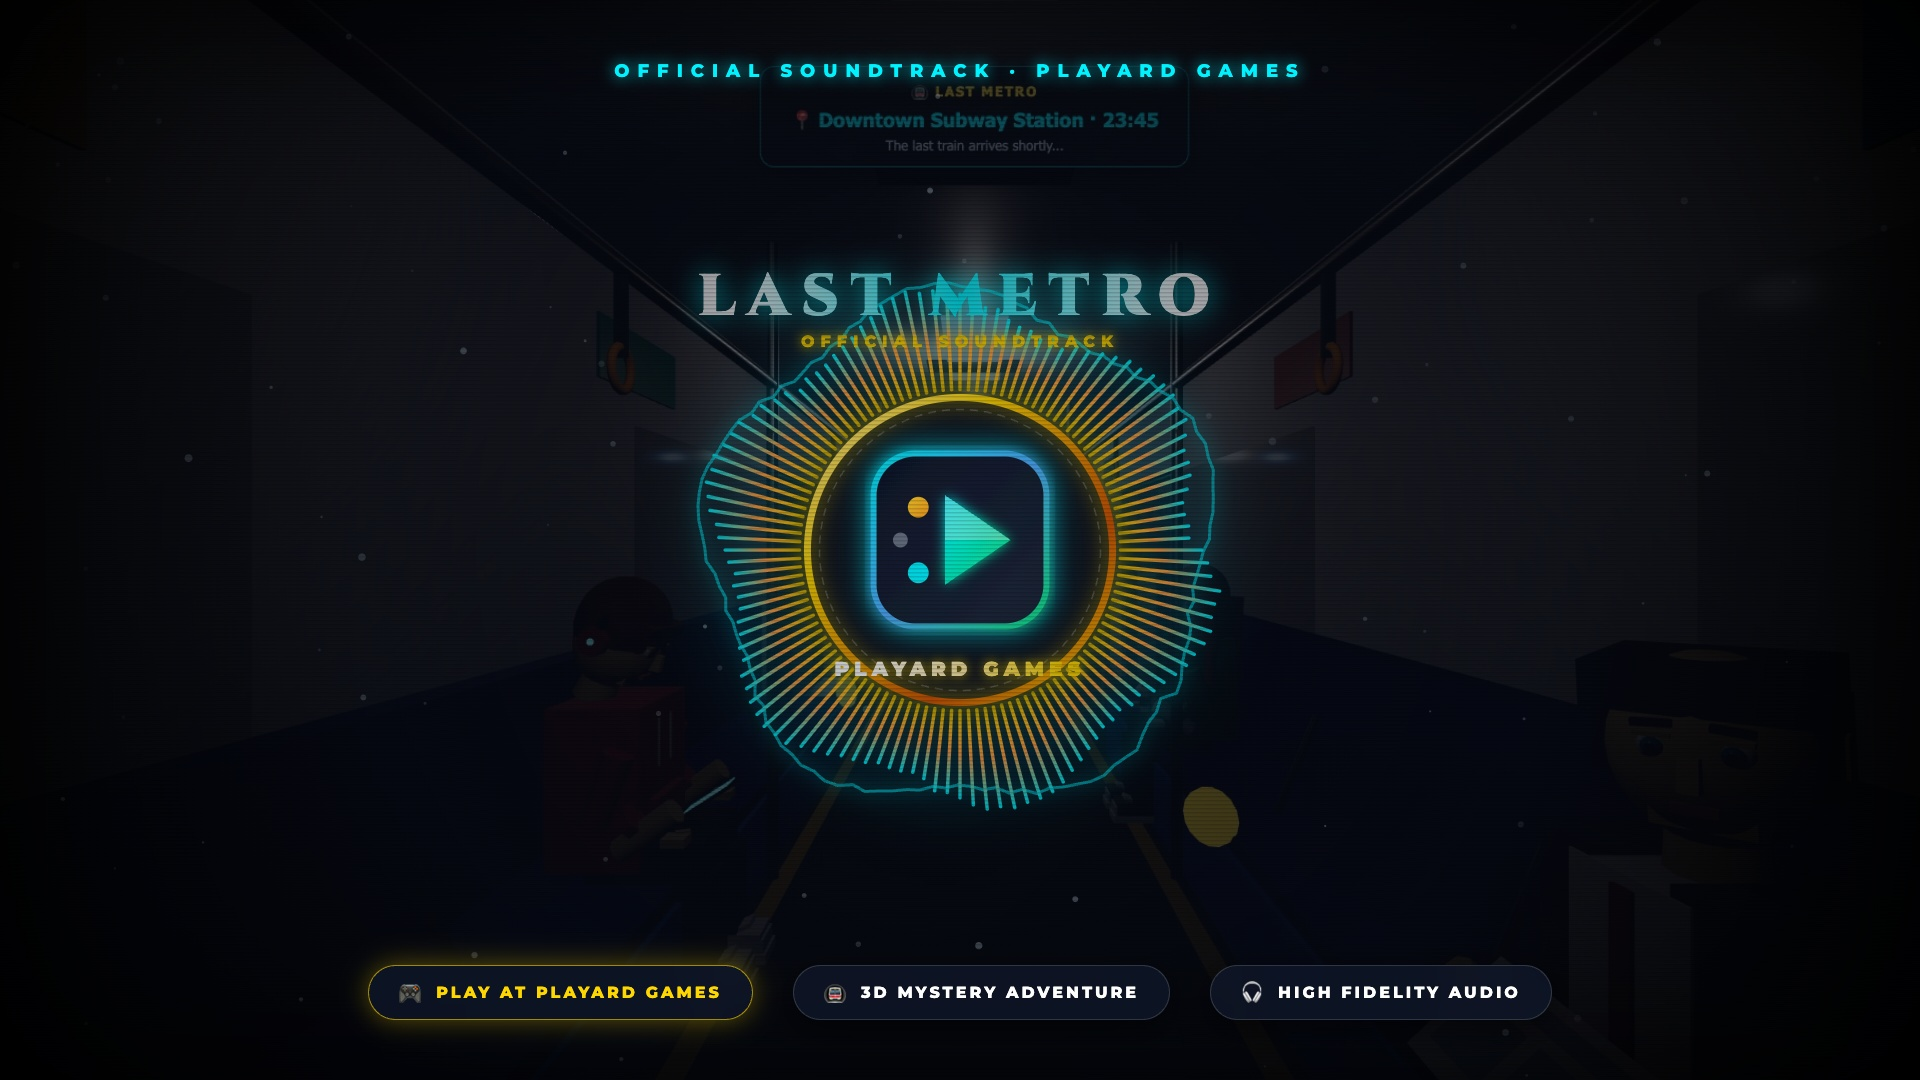
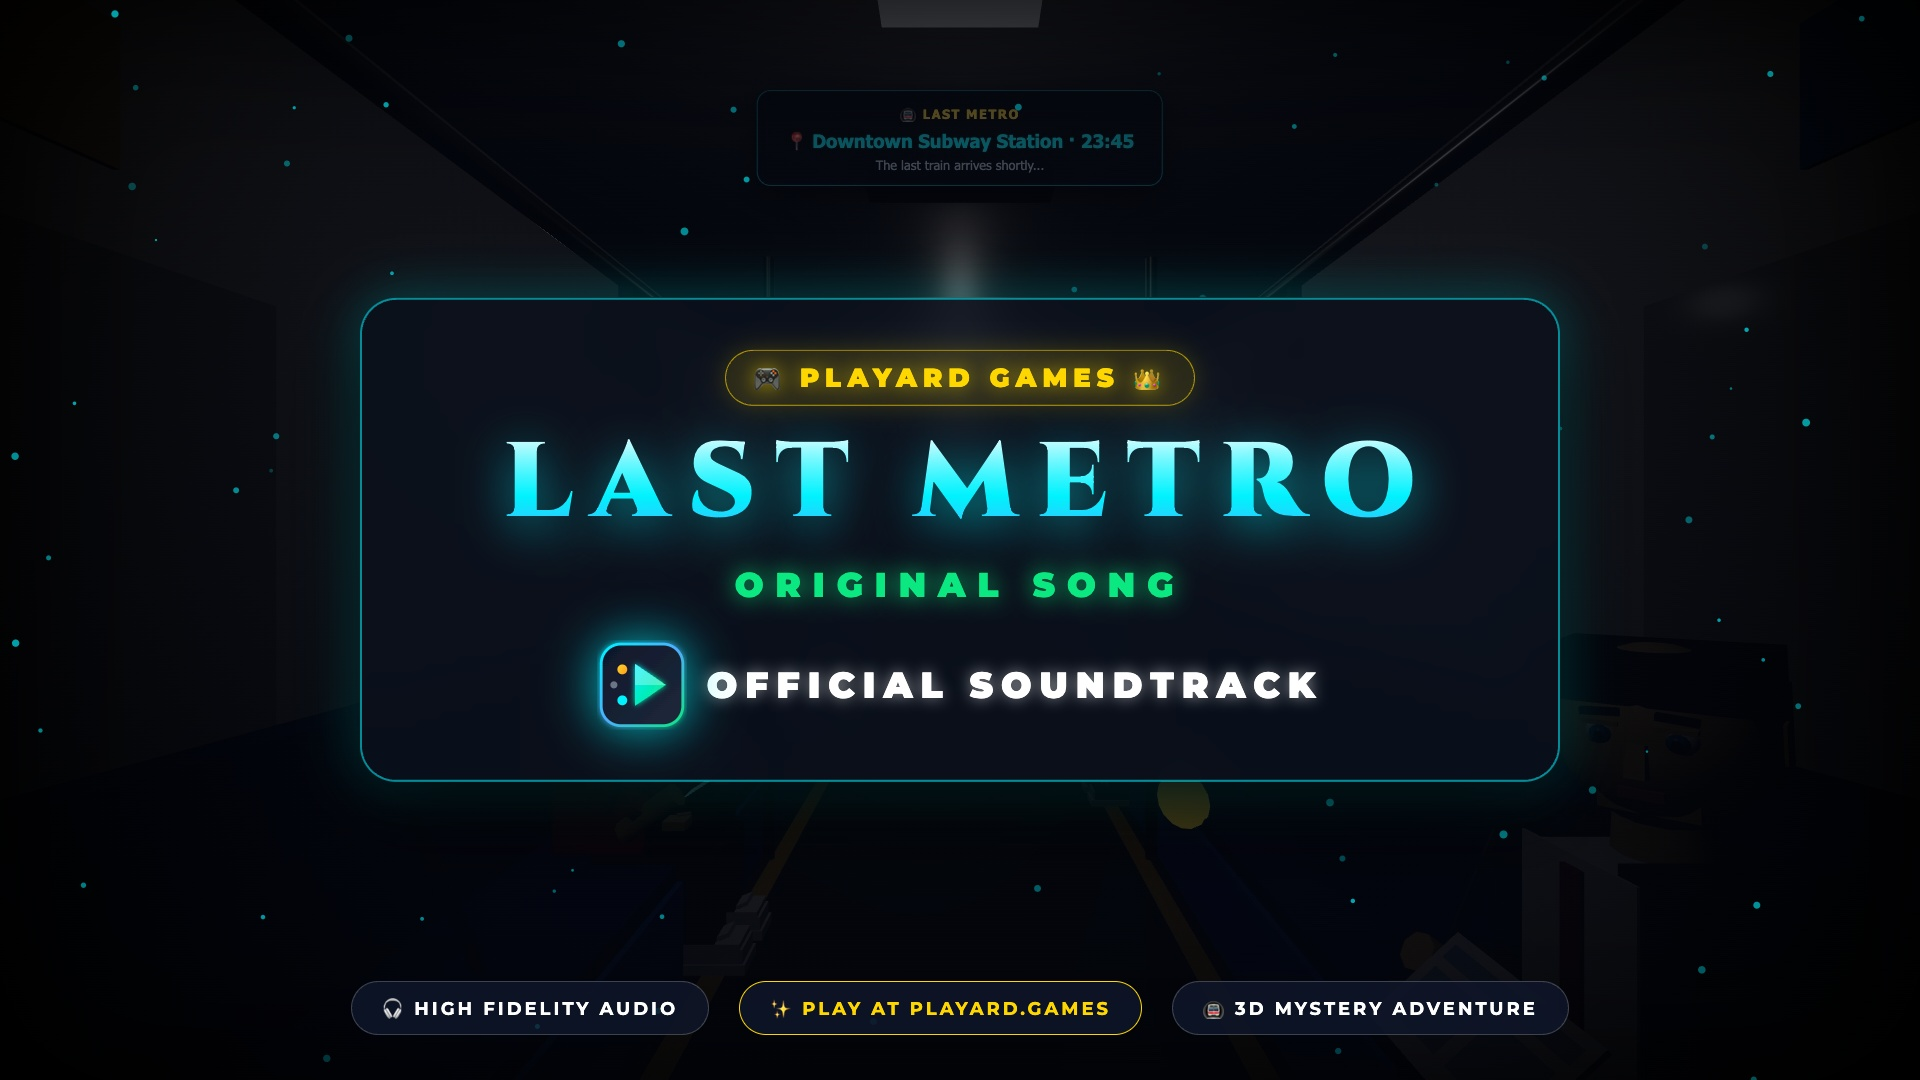
Add dedicated Last Metro YouTube thumbnail frame and keep video untouched

diff --git a/metro_thumbnail_frame.html b/metro_thumbnail_frame.html
@@ -1,0 +1,178 @@
+<!DOCTYPE html>
+<html lang="en">
+<head>
+    <meta charset="UTF-8">
+    <meta name="viewport" content="width=device-width, initial-scale=1.0">
+    <title>Last Metro - YouTube Thumbnail Frame</title>
+    <link href="https://fonts.googleapis.com/css2?family=Cinzel:wght@800;900&family=Montserrat:wght@500;700;800;900&display=swap" rel="stylesheet">
+    <style>
+        * { box-sizing: border-box; margin: 0; padding: 0; }
+        body, html {
+            width: 1920px;
+            height: 1080px;
+            overflow: hidden;
+            background: #000;
+            font-family: 'Montserrat', sans-serif;
+        }
+        #stage {
+            position: relative;
+            width: 1920px;
+            height: 1080px;
+            background: url('metro_clean_bg.jpg') center/cover no-repeat;
+        }
+        /* Cinematic Vignette & Ambient Glow */
+        #vignette {
+            position: absolute;
+            top: 0; left: 0; width: 100%; height: 100%;
+            background: radial-gradient(circle at 50% 50%, rgba(6, 11, 24, 0.4) 0%, rgba(3, 6, 14, 0.8) 60%, rgba(0, 0, 0, 0.95) 100%);
+            box-shadow: inset 0 0 160px rgba(0, 0, 0, 0.95);
+        }
+        #particles {
+            position: absolute;
+            top: 0; left: 0; width: 100%; height: 100%;
+        }
+        /* Main Center Hero Card */
+        #hero-frame {
+            position: absolute;
+            top: 50%;
+            left: 50%;
+            transform: translate(-50%, -50%);
+            width: 1200px;
+            background: rgba(10, 16, 28, 0.85);
+            backdrop-filter: blur(20px);
+            -webkit-backdrop-filter: blur(20px);
+            border: 2.5px solid rgba(0, 242, 254, 0.55);
+            border-radius: 36px;
+            box-shadow: 0 25px 80px rgba(0, 0, 0, 0.9), 0 0 50px rgba(0, 242, 254, 0.35);
+            padding: 50px 40px;
+            display: flex;
+            flex-direction: column;
+            align-items: center;
+            text-align: center;
+            gap: 24px;
+        }
+        /* Top Brand Label */
+        .brand-badge {
+            display: inline-flex;
+            align-items: center;
+            gap: 14px;
+            background: rgba(255, 215, 0, 0.12);
+            border: 1.5px solid rgba(255, 215, 0, 0.6);
+            border-radius: 50px;
+            padding: 10px 28px;
+            color: #ffd700;
+            font-size: 26px;
+            font-weight: 900;
+            letter-spacing: 6px;
+            text-shadow: 0 0 20px rgba(255, 215, 0, 0.6);
+            box-shadow: 0 0 25px rgba(255, 215, 0, 0.2);
+        }
+        /* Giant Title */
+        .hero-title {
+            font-family: 'Cinzel', serif;
+            font-size: 105px;
+            font-weight: 900;
+            letter-spacing: 20px;
+            background: linear-gradient(180deg, #ffffff 0%, #00f2fe 60%, #4facfe 100%);
+            -webkit-background-clip: text;
+            -webkit-text-fill-color: transparent;
+            text-shadow: 0 10px 50px rgba(0, 242, 254, 0.6);
+            line-height: 1.05;
+            margin: 0;
+            padding-left: 20px;
+        }
+        /* Tag / Sub-label */
+        .song-tag {
+            font-size: 34px;
+            font-weight: 900;
+            letter-spacing: 12px;
+            color: #0be881;
+            text-shadow: 0 0 25px rgba(11, 232, 129, 0.8);
+            text-transform: uppercase;
+        }
+        /* Center Logo Badge Row */
+        .logo-row {
+            display: flex;
+            align-items: center;
+            justify-content: center;
+            gap: 20px;
+            margin-top: 10px;
+        }
+        .logo-img {
+            width: 90px;
+            height: 90px;
+            filter: drop-shadow(0 0 25px rgba(0, 242, 254, 0.8));
+        }
+        .logo-title {
+            font-size: 36px;
+            font-weight: 900;
+            letter-spacing: 8px;
+            color: #fff;
+            text-shadow: 0 0 15px rgba(255, 255, 255, 0.5);
+        }
+        /* Bottom Badges */
+        #bottom-bar {
+            position: absolute;
+            bottom: 45px;
+            left: 0;
+            width: 100%;
+            display: flex;
+            justify-content: center;
+            gap: 30px;
+        }
+        .badge-pill {
+            background: rgba(15, 23, 42, 0.8);
+            border: 1px solid rgba(255, 255, 255, 0.2);
+            border-radius: 40px;
+            padding: 12px 30px;
+            color: #ffffff;
+            font-size: 18px;
+            font-weight: 700;
+            letter-spacing: 3px;
+        }
+    </style>
+</head>
+<body>
+    <div id="stage">
+        <div id="vignette"></div>
+        <canvas id="particles" width="1920" height="1080"></canvas>
+
+        <div id="hero-frame">
+            <div class="brand-badge">
+                <span>🎮</span>
+                <span>PLAYARD GAMES</span>
+                <span>👑</span>
+            </div>
+
+            <h1 class="hero-title">LAST METRO</h1>
+
+            <div class="song-tag">ORIGINAL SONG</div>
+
+            <div class="logo-row">
+                <img class="logo-img" src="public/assets/playard_logo.svg" alt="Playard Logo">
+                <span class="logo-title">OFFICIAL SOUNDTRACK</span>
+            </div>
+        </div>
+
+        <div id="bottom-bar">
+            <div class="badge-pill">🎧 HIGH FIDELITY AUDIO</div>
+            <div class="badge-pill" style="border-color: #ffd700; color: #ffd700;">✨ PLAY AT PLAYARD.GAMES</div>
+            <div class="badge-pill">🚇 3D MYSTERY ADVENTURE</div>
+        </div>
+    </div>
+
+    <script>
+        const canvas = document.getElementById('particles');
+        const ctx = canvas.getContext('2d');
+        for (let i = 0; i < 90; i++) {
+            const x = Math.random() * 1920;
+            const y = Math.random() * 1080;
+            const r = Math.random() * 3 + 1;
+            ctx.beginPath();
+            ctx.arc(x, y, r, 0, Math.PI * 2);
+            ctx.fillStyle = `rgba(0, 242, 254, ${Math.random() * 0.5 + 0.2})`;
+            ctx.fill();
+        }
+    </script>
+</body>
+</html>

diff --git a/metro_music_video.html b/metro_music_video.html
@@ -454,6 +454,8 @@
 
             fxCtx.restore();
 
+
+
             // Overlay subtle scanlines & vignette on canvas
             fxCtx.fillStyle = 'rgba(0, 0, 0, 0.15)';
             for (let y = 0; y < 1080; y += 4) {
